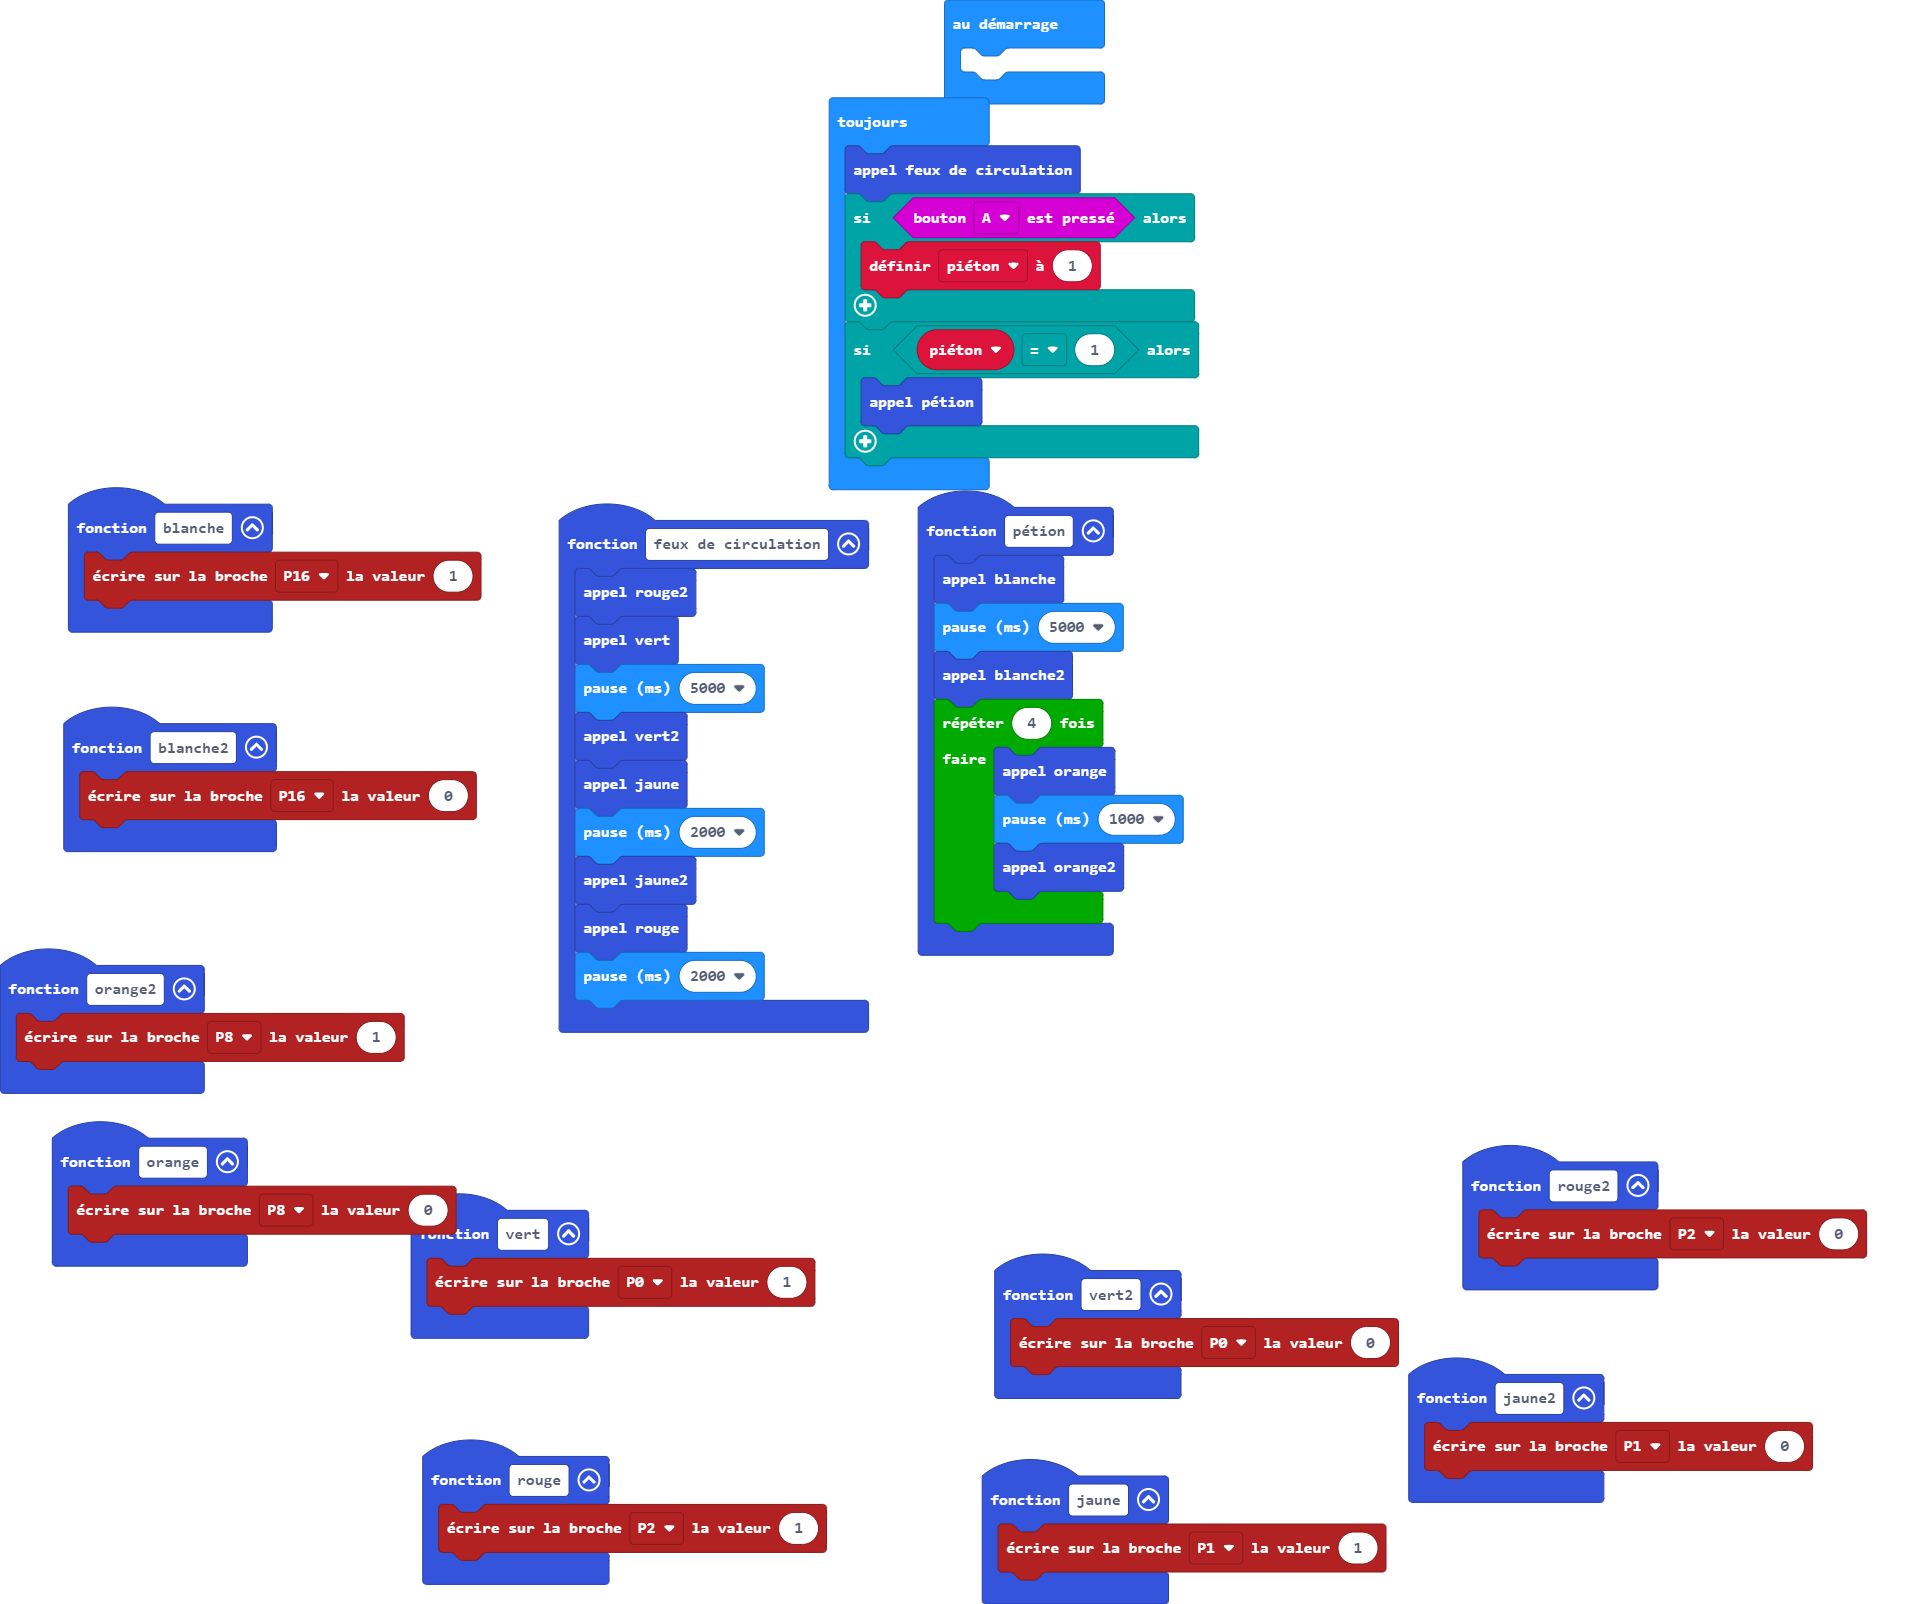
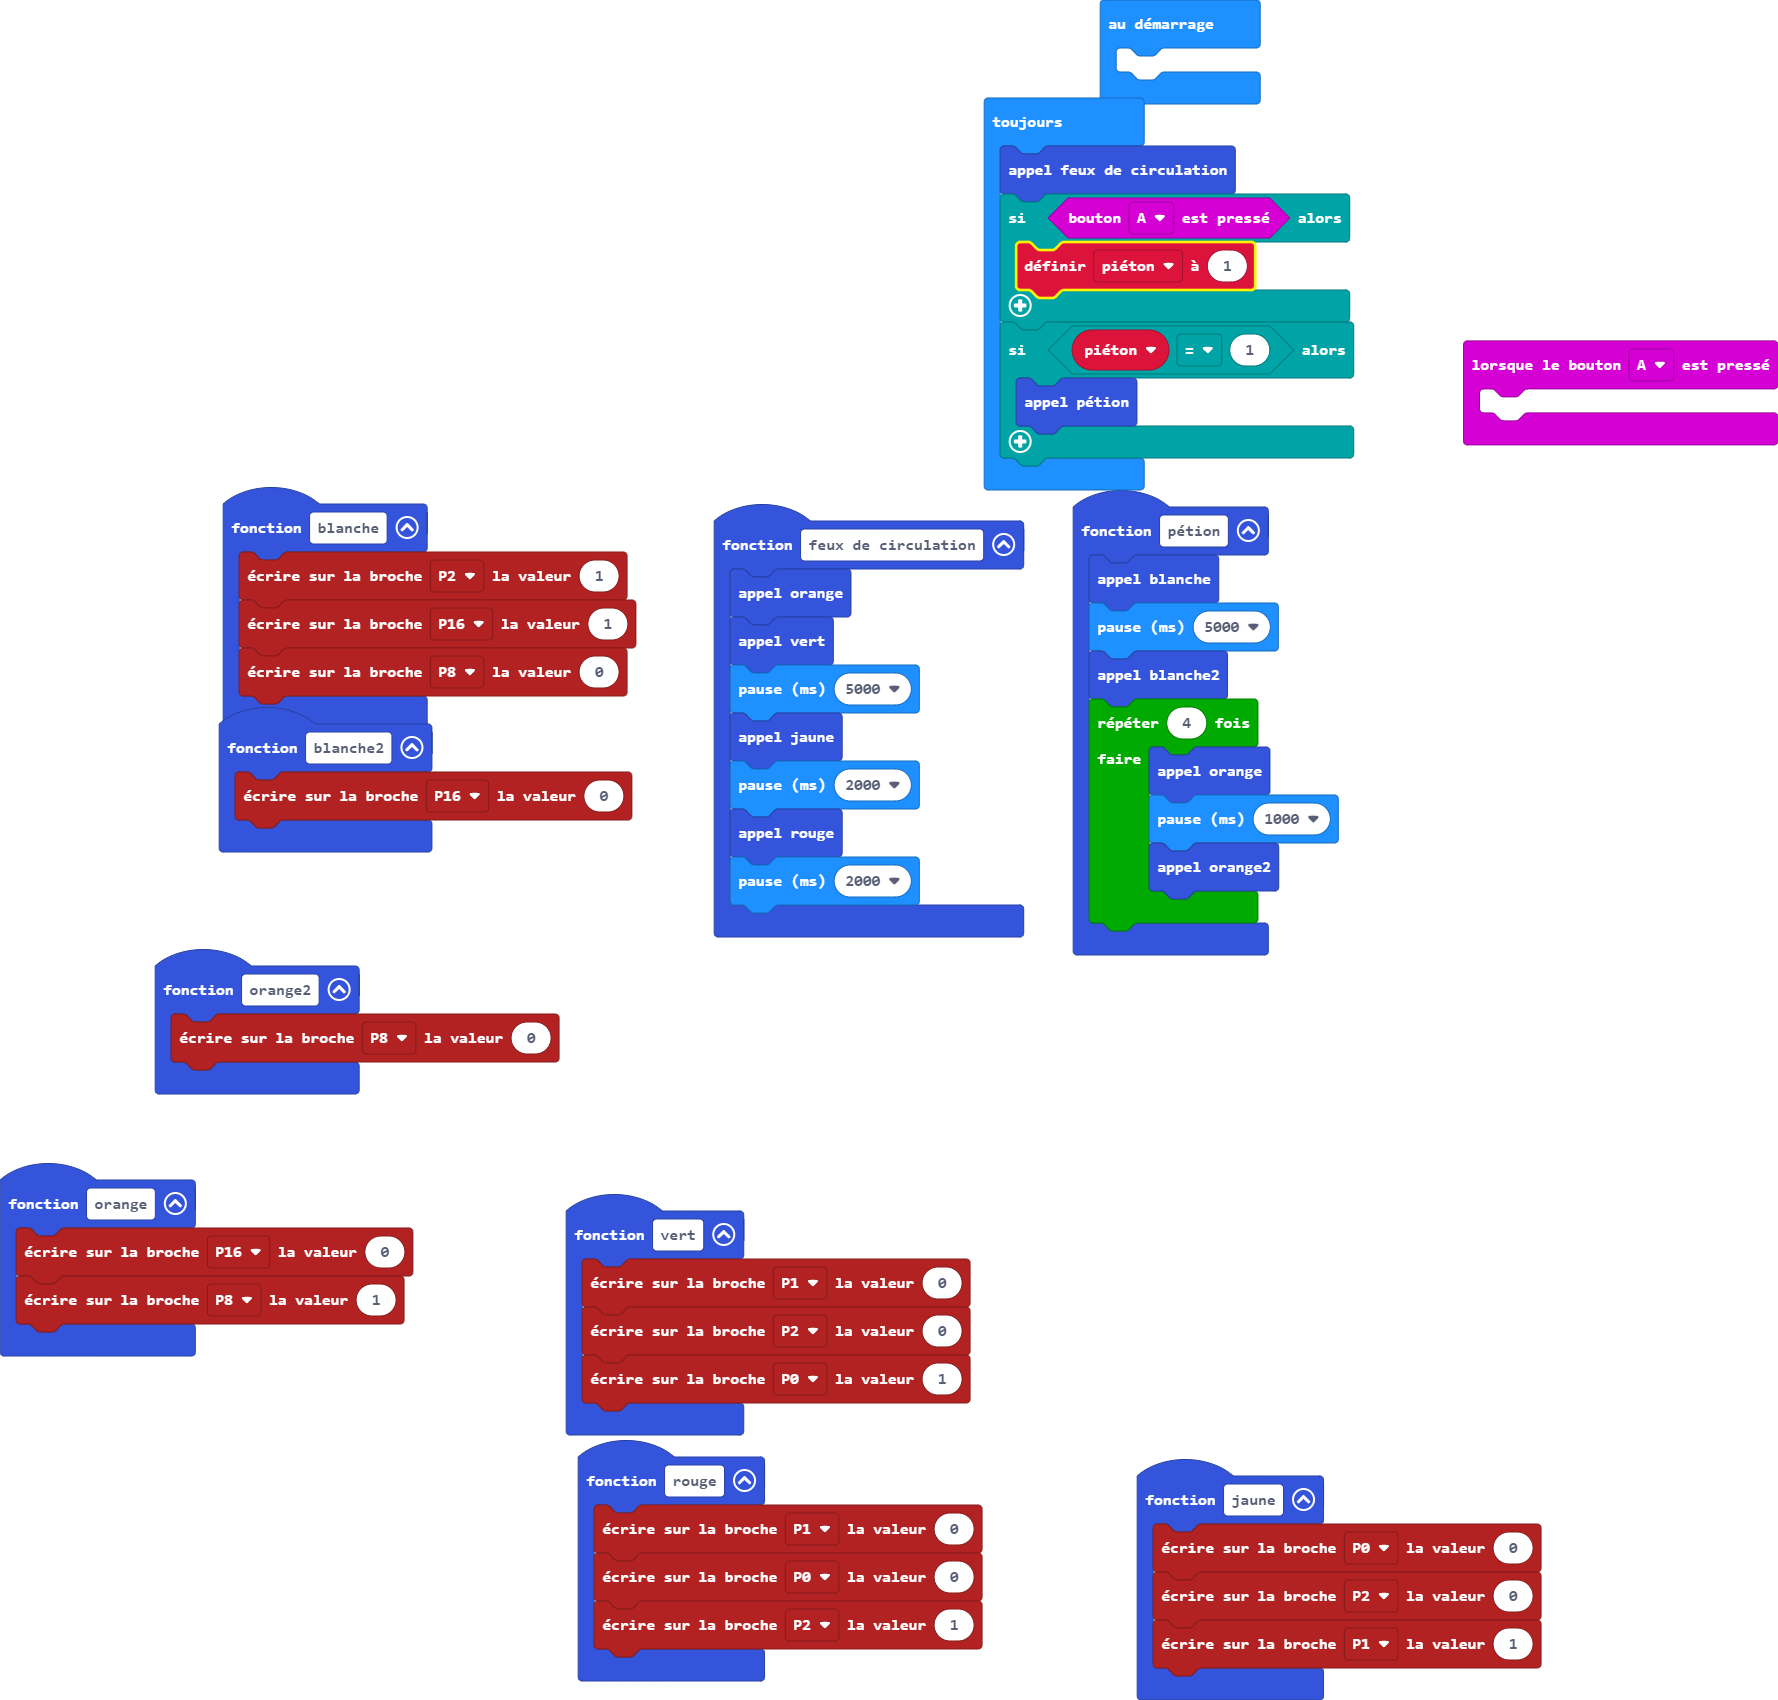
Mise à jour main.blocks, main.ts

diff --git a/main.ts b/main.ts
@@ -1,5 +1,7 @@
 let piéton = 0
 function jaune () {
+    pins.digitalWritePin(DigitalPin.P0, 0)
+    pins.digitalWritePin(DigitalPin.P2, 0)
     pins.digitalWritePin(DigitalPin.P1, 1)
 }
 function pétion () {
@@ -12,42 +14,41 @@ function pétion () {
         orange2()
     }
 }
+input.onButtonPressed(Button.A, function () {
+	
+})
 function blanche2 () {
     pins.digitalWritePin(DigitalPin.P16, 0)
 }
 function orange2 () {
-    pins.digitalWritePin(DigitalPin.P8, 1)
-}
-function jaune2 () {
-    pins.digitalWritePin(DigitalPin.P1, 0)
+    pins.digitalWritePin(DigitalPin.P8, 0)
 }
 function feux_de_circulation () {
-    rouge2()
+    orange()
     vert()
     basic.pause(5000)
-    vert2()
     jaune()
     basic.pause(2000)
-    jaune2()
     rouge()
     basic.pause(2000)
 }
-function rouge2 () {
-    pins.digitalWritePin(DigitalPin.P2, 0)
-}
 function orange () {
-    pins.digitalWritePin(DigitalPin.P8, 0)
+    pins.digitalWritePin(DigitalPin.P16, 0)
+    pins.digitalWritePin(DigitalPin.P8, 1)
 }
 function blanche () {
+    pins.digitalWritePin(DigitalPin.P2, 1)
     pins.digitalWritePin(DigitalPin.P16, 1)
-}
-function vert2 () {
-    pins.digitalWritePin(DigitalPin.P0, 0)
+    pins.digitalWritePin(DigitalPin.P8, 0)
 }
 function rouge () {
+    pins.digitalWritePin(DigitalPin.P1, 0)
+    pins.digitalWritePin(DigitalPin.P0, 0)
     pins.digitalWritePin(DigitalPin.P2, 1)
 }
 function vert () {
+    pins.digitalWritePin(DigitalPin.P1, 0)
+    pins.digitalWritePin(DigitalPin.P2, 0)
     pins.digitalWritePin(DigitalPin.P0, 1)
 }
 basic.forever(function () {
